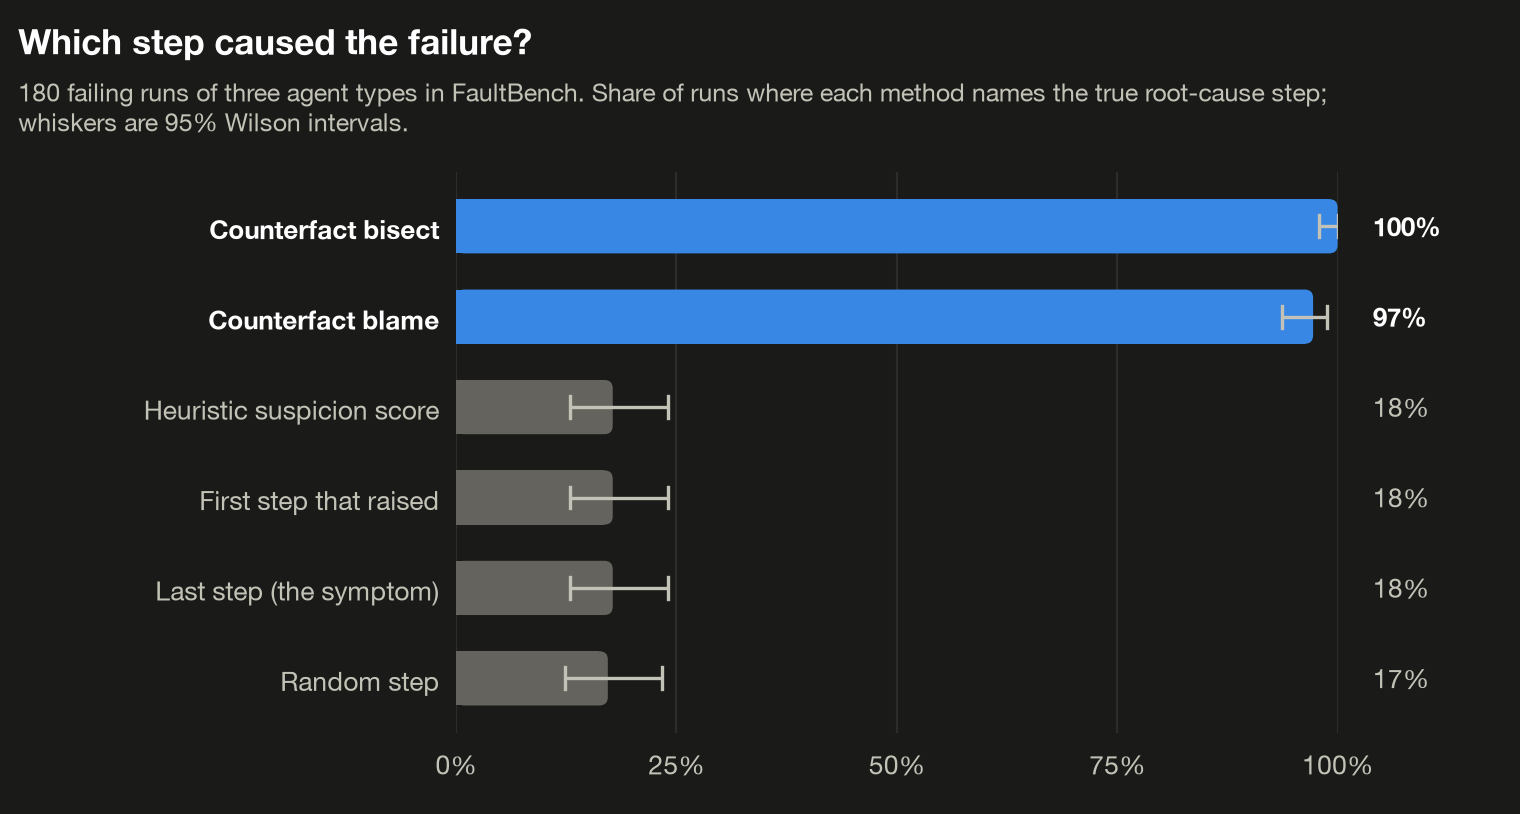
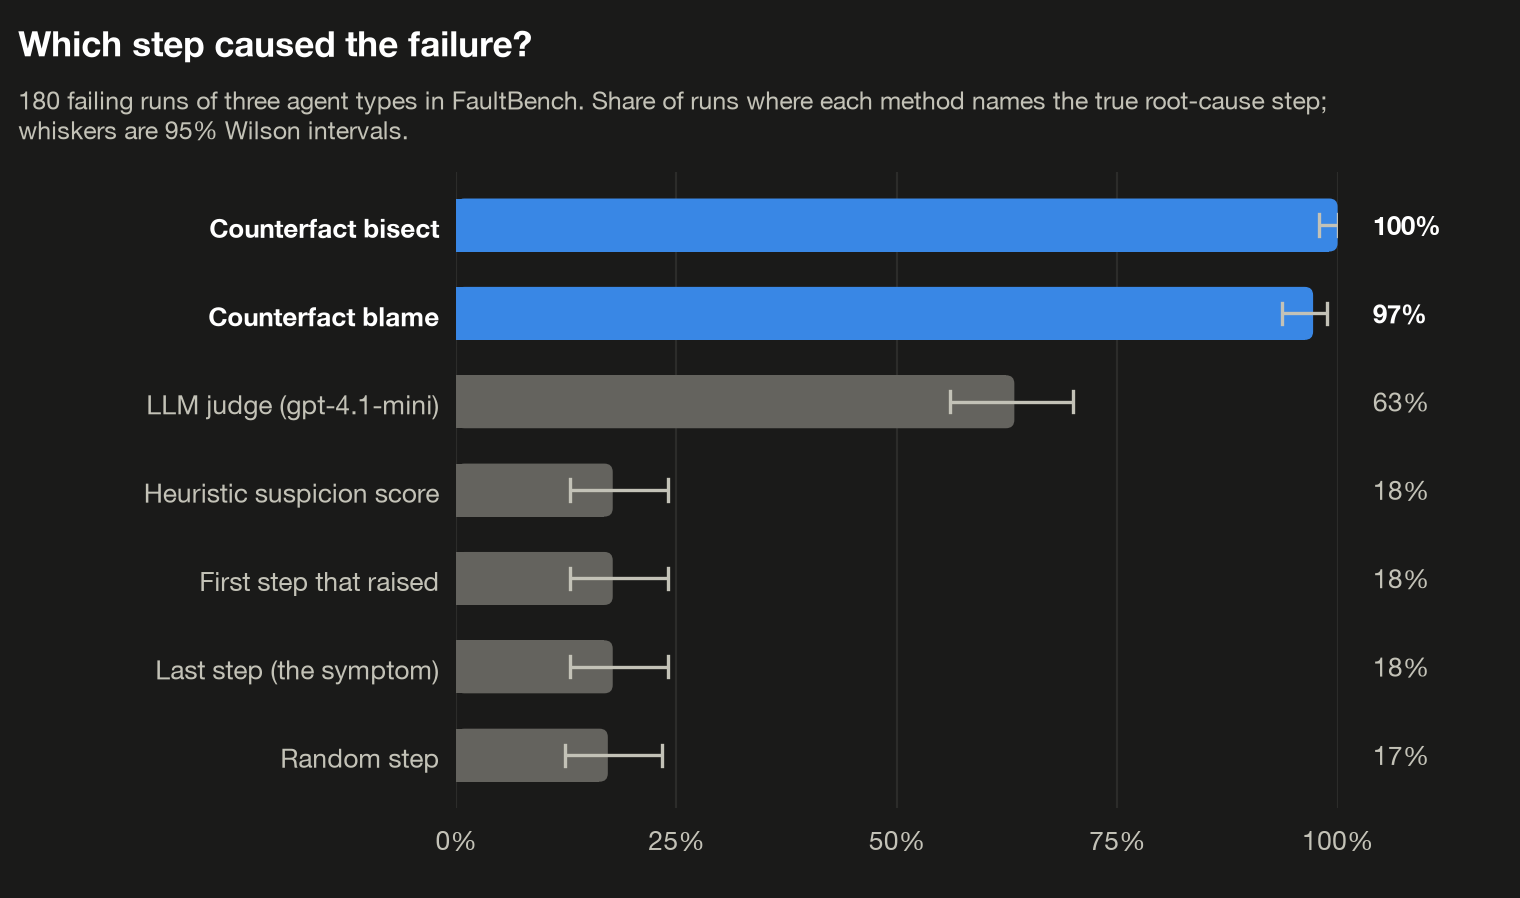
docs: add the LLM-judge baseline to the FaultBench results
gpt-4.1-mini reading the full trace names the root-cause step in 63% of the 180
runs (95% CI 56% to 70%): 82% on calculator chains, 60% on retrieval QA and 48% on
the multi-agent team. Blame reaches 97% and bisect 100% on the same runs.

diff --git a/scripts/make_figures.py b/scripts/make_figures.py
@@ -243,7 +243,7 @@ SHORT = {
     "last": "Last step (the symptom)",
     "first_error": "First step that raised",
     "suspicion": "Heuristic suspicion score",
-    "llm_judge": "LLM judge reads the trace",
+    "llm_judge": "LLM judge (gpt-4.1-mini)",
     "blame": "Counterfact blame",
     "bisect": "Counterfact bisect",
 }

diff --git a/README.md b/README.md
@@ -12,7 +12,8 @@ right, and everything else had happened exactly as it did, would the run have pa
 answers by replaying the agent with that one step repaired.
 
 On FaultBench, 180 failing runs with known root causes, this finds the culprit in
-**97%** of runs (95% CI 94% to 99%). Picking the first error or the last step finds it in 18%.
+**97%** of runs (95% CI 94% to 99%). An LLM reading the full trace (gpt-4.1-mini) finds it
+in 63%, and picking the first error or the last step finds it in 18%.
 
 <picture>
   <source media="(prefers-color-scheme: dark)" srcset="docs/assets/blame-dark.gif">
@@ -128,7 +129,7 @@ every step against the inputs it received; the methods under test never see them
 
 <picture>
   <source media="(prefers-color-scheme: dark)" srcset="docs/assets/faultbench-dark.png">
-  <img alt="Bar chart of root-cause accuracy on 180 FaultBench runs: Counterfact bisect 100%, Counterfact blame 97%, heuristic suspicion, first error and last step 18% each, random 17%" src="docs/assets/faultbench-light.png" width="100%">
+  <img alt="Bar chart of root-cause accuracy on 180 FaultBench runs: Counterfact bisect 100%, Counterfact blame 97%, LLM judge 63%, heuristic suspicion, first error and last step 18% each, random 17%" src="docs/assets/faultbench-light.png" width="100%">
 </picture>
 
 | Method | Accuracy (95% CI) | calc | rag | team | Replays per run |
@@ -137,6 +138,7 @@ every step against the inputs it received; the methods under test never see them
 | Last step (the symptom) | 18% [13%, 24%] | 15% | 32% | 7% | 0 |
 | First step that raised | 18% [13%, 24%] | 15% | 32% | 7% | 0 |
 | Heuristic suspicion score | 18% [13%, 24%] | 15% | 32% | 7% | 0 |
+| LLM judge reads the trace (gpt-4.1-mini) | 63% [56%, 70%] | 82% | 60% | 48% | 0 |
 | **Counterfact blame** | **97% [94%, 99%]** | 95% | 98% | 98% | 7.3 |
 | **Counterfact bisect** | **100% [98%, 100%]** | 100% | 100% | 100% | 4.7 |
 
@@ -144,9 +146,13 @@ The faults are silent, so "first step that raised" and the suspicion heuristic h
 error to go on and fall back to the last step. That is exactly why silent failures are
 hard to debug from a trace.
 
-There is also an LLM-judge baseline, in which a model reads the full trace and names the
-culprit; it's implemented in [`judge.py`](src/counterfact/judge.py). Its results will be
-added here once it has been run. To run it yourself, see
+The strongest baseline gives a model the full trace, every step's inputs and outputs,
+and asks for the root cause ([`judge.py`](src/counterfact/judge.py)), the usual approach
+to automated failure attribution. gpt-4.1-mini names the right step in 63% of runs: well
+above the heuristics, and best on the short calculator chains (82%). It falls to 48% on
+the research team, where a wrong fact passes through several agents before the answer
+goes wrong, and the trace alone often doesn't show where it started. The run took 180
+calls and about 97,000 input tokens. To rerun it, see
 [Configuring the LLM judge](#configuring-the-llm-judge).
 
 <picture>
